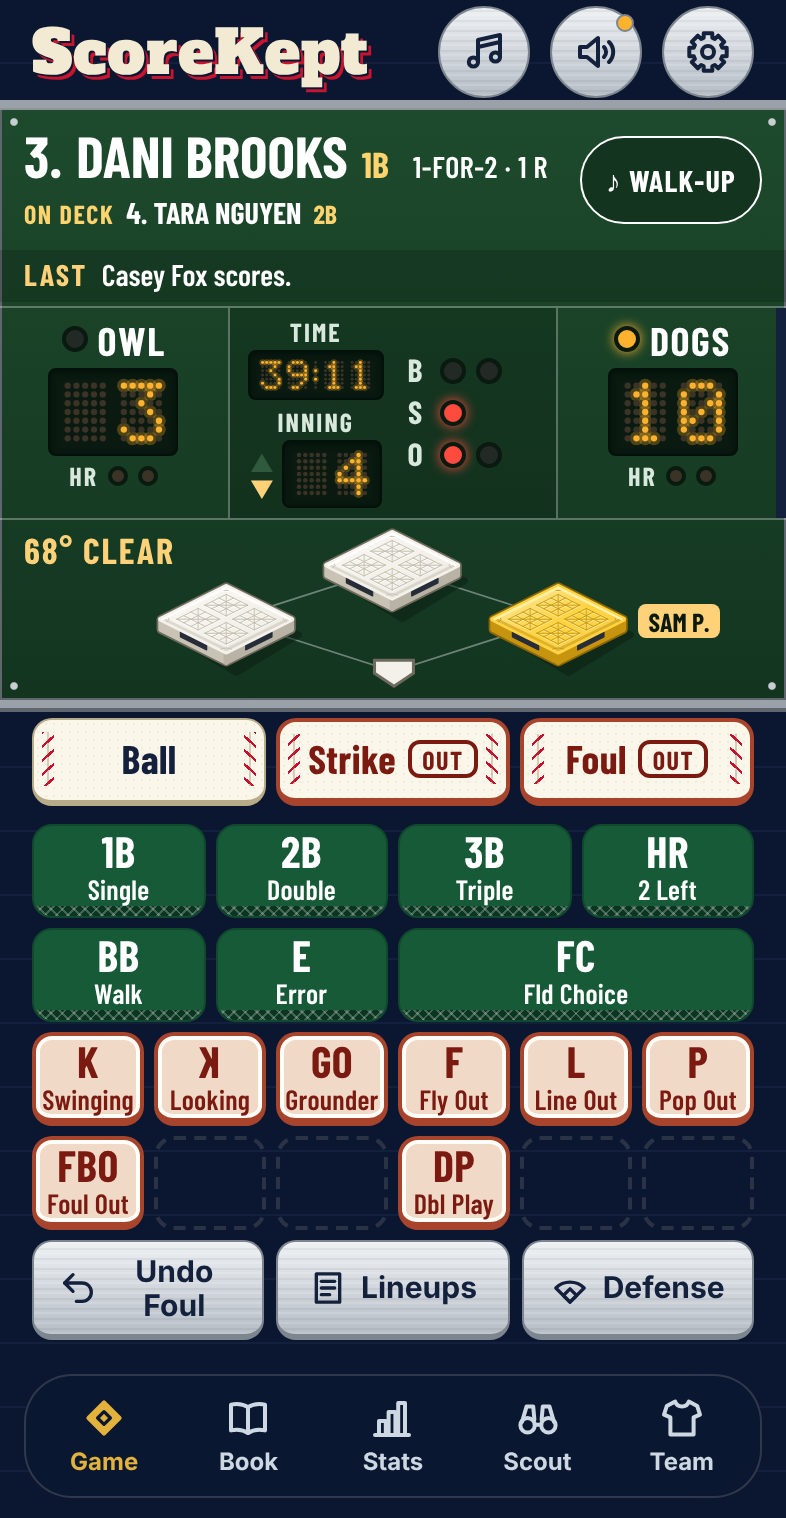
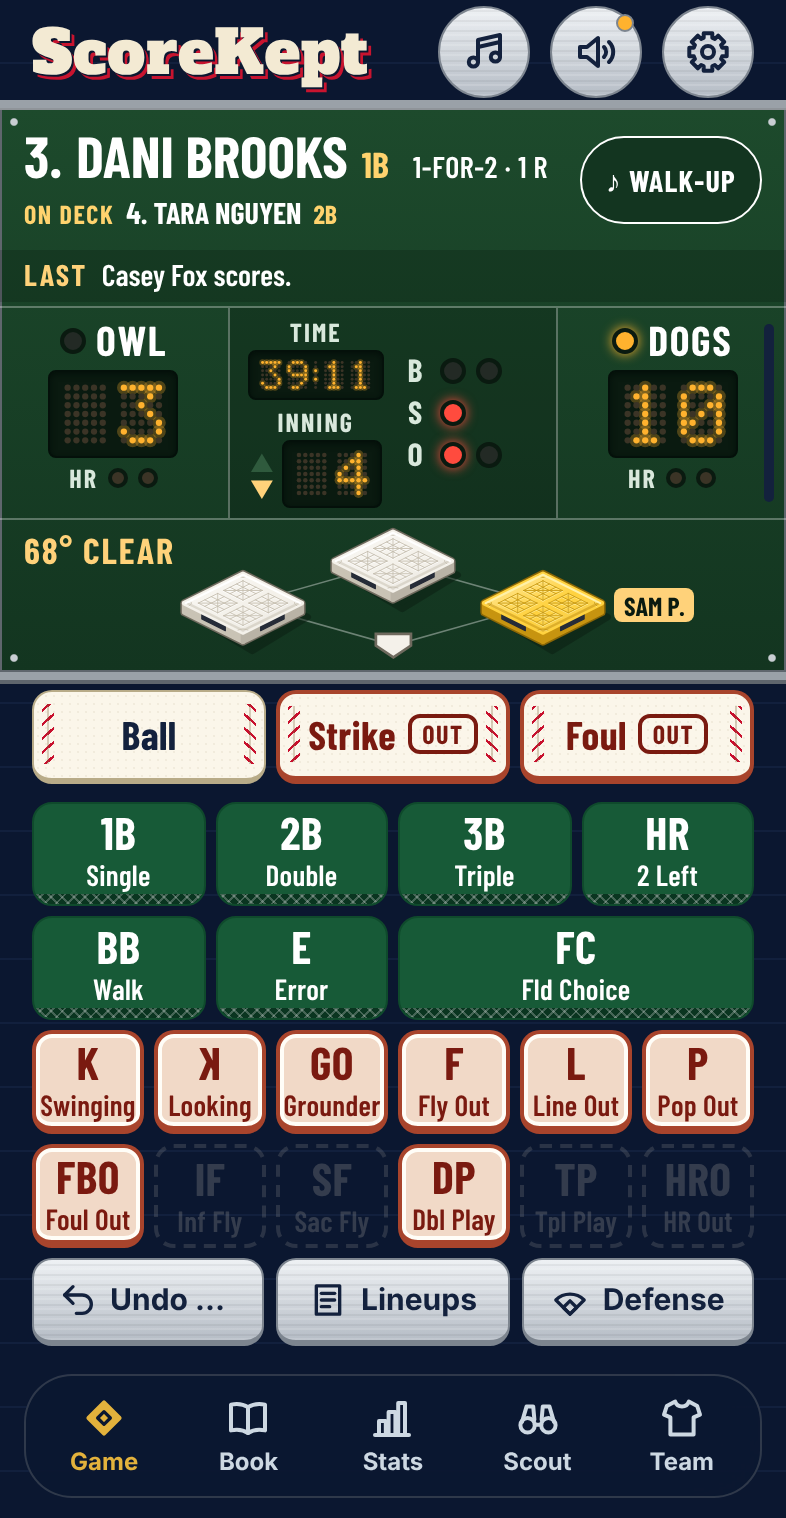
Game: the pad fills the screen, chalk labels in empty slots, trimmed diamond
From the research bot's second review: empty out slots keep their labels in
faint chalk; the scoring rows grow to fill the screen down to 14 points
above the tab bar with bigger codes, measured only when the screen's shape
changes; the diamond is trimmed; Undo stays on one line; and the team
stripe sits inside the board's edge.

Claude-Session: https://claude.ai/code/session_019GkS5eEiAzmEB3GrHC5aVf

Changed region(s): [[0.0, 0.3406, 1.0, 0.8979], [0.7634, 0.1858, 1.0, 0.3406], [0.0611, 0.2167, 0.2137, 0.3096]]

diff --git a/src/ui/game/screen.ts b/src/ui/game/screen.ts
@@ -7,6 +7,7 @@ import type { App } from '../../app/app.ts';
 import { battingTeamOf, boardView, clockText, finalText, ordinalWord, padView } from '../../app/view.ts';
 import type { GameState } from '../../engine/replay.ts';
 import type { GameEvent } from '../../engine/types.ts';
+import { currentLayout } from '../layout.ts';
 import { describePlay } from '../../engine/words.ts';
 import { recordText, teamRecord } from '../../stats/index.ts';
 import { announce } from '../announce.ts';
@@ -129,6 +130,7 @@ export class GameScreen {
     );
 
     this.el = h('div', { class: 'gm-screen' }, header, this.live, this.upNext, this.idle);
+    window.addEventListener('resize', () => this.fill());
     // Key Clicks (Sounds): the touch itself clicks, so the sound lands with the thumb.
     this.el.addEventListener('pointerdown', (e) => {
       const k = (e.target as Element).closest('.gm-key, .gm-strip-key');
@@ -216,7 +218,58 @@ export class GameScreen {
     const recent = s.plays.filter((p) => p.t === 'pa' || p.t === 'runner' || p.t === 'quick').slice(-4).reverse();
     this.lastPlays.replaceChildren(...recent.map((p) => h('li', {}, describePlay(p, name))));
     this.announceChanges(game.id, s);
+    this.fill();
   }
+
+  /**
+   * The pad fills the screen (Nov 14): give the live area the room down to 14 points above the
+   * tab bar, so the scoring rows grow into it, and let the labels grow a little with them.
+   * iPhone upright only; the board and pad keep their natural sizes elsewhere.
+   */
+  fill(): void {
+    const live = this.live;
+    const bar = document.querySelector('.sk-tabbar');
+    if (live.hidden || currentLayout() !== 'phone' || !bar) {
+      document.documentElement.classList.remove('gm-filled');
+      if (this.fitKey) {
+        live.style.minHeight = '';
+        this.el.style.removeProperty('--grow');
+        this.fitKey = '';
+      }
+      return;
+    }
+    // One read per tap; the measuring (a second layout) happens only when the screen's shape changes,
+    // so scoring stays instant (LESSONS 98).
+    const top = live.getBoundingClientRect().top;
+    const barTop = bar.getBoundingClientRect().top;
+    const key = `${innerWidth}x${innerHeight}:${Math.round(top)}:${Math.round(barTop)}`;
+    if (key === this.fitKey) return;
+    this.fitKey = key;
+    document.documentElement.classList.remove('gm-filled');
+    live.style.minHeight = '';
+    this.el.style.removeProperty('--grow');
+    const natural = live.getBoundingClientRect().height;
+    // Down to 14 points above the tab bar; if that would make the page scroll, give the overflow back.
+    let room = Math.floor(barTop - 14 - top);
+    // Too tall to fill (150% zoom, the largest text): the page scrolls as usual, room for the tab bar kept.
+    if (!natural || room - natural <= 1) return;
+    // The pad itself stops above the tab bar, so the room every tab keeps for it isn't needed here.
+    document.documentElement.classList.add('gm-filled');
+    live.style.minHeight = `${room}px`;
+    const over = document.documentElement.scrollHeight - innerHeight;
+    if (over > 0) {
+      room -= over;
+      live.style.minHeight = room > natural ? `${room}px` : '';
+      if (room <= natural) document.documentElement.classList.remove('gm-filled');
+    }
+    const extra = room - natural;
+    if (extra <= 1) return;
+    const pad = this.pad.el.getBoundingClientRect().height || 1;
+    this.el.style.setProperty('--grow', Math.min(1.22, 1 + (extra / pad) * 0.5).toFixed(3));
+  }
+
+  private fitKey = '';
+
 
   /** Once a second: the clock's bulbs only. When the minute rolls over, the whole board (LAST can arrive). */
   tick(): void {

diff --git a/src/ui/game/game.css b/src/ui/game/game.css
@@ -174,19 +174,35 @@
   padding: 5px 4px;
 }
 
-/* Your team's color, as a stripe down the edge of its side of the board. */
-.gm-away.us {
-  box-shadow: inset 5px 0 0 var(--team, var(--fb-team-fallback));
+/* Your team's color, as a rounded stripe just inside its side of the board, clear of the
+   iPhone's rounded screen edge (it looked clipped right at the edge). */
+.gm-team {
+  position: relative;
 }
 
-.gm-home.us {
-  box-shadow: inset -5px 0 0 var(--team, var(--fb-team-fallback));
+.gm-away.us::before,
+.gm-home.us::before {
+  content: '';
+  position: absolute;
+  top: 8px;
+  bottom: 8px;
+  width: 5px;
+  border-radius: 3px;
+  background-color: var(--team, var(--fb-team-fallback));
+}
+
+.gm-away.us::before {
+  left: 6px;
+}
+
+.gm-home.us::before {
+  right: 6px;
 }
 
 .gm-name {
   max-width: 100%;
   overflow: hidden;
-  font-size: min(calc(20 * var(--u)), 6vw);
+  font-size: calc(min(calc(20 * var(--u)), 6vw) * var(--grow, 1));
   font-weight: 700;
   letter-spacing: 0.04em;
   line-height: 1.1;
@@ -424,10 +440,10 @@
  * beside their base. Each base keeps a 44-point tap target.
  */
 .gm-board {
-  --bag: clamp(52px, 20cqi, 76px);
+  --bag: clamp(48px, 18cqi, 68px);
   --bag-h: calc(var(--bag) * 0.738);
   /* How much lower first and third sit than second. */
-  --rise: calc(var(--bag-h) * 0.5);
+  --rise: calc(var(--bag-h) * 0.44);
   /* Where a base's top face centers inside its box. */
   --face: calc(var(--bag-h) * 0.387);
   /* First and third: their centers this far from the middle. */
@@ -752,7 +768,7 @@
 .gm-code {
   font-family: var(--font-board);
   font-weight: 700;
-  font-size: min(calc(22 * var(--u)), 6.4vw);
+  font-size: calc(min(calc(22 * var(--u)), 6.4vw) * var(--grow, 1));
   letter-spacing: 0.01em;
 }
 
@@ -760,7 +776,8 @@
   margin-top: 2px;
   font-family: var(--font-board);
   font-weight: 600;
-  font-size: min(calc(14 * var(--u)), 3.9vw);
+  /* The small words grow less than the codes, so Swinging and Grounder never crowd their keys. */
+  font-size: calc(min(calc(14 * var(--u)), 3.9vw) * min(var(--grow, 1), 1.08));
   letter-spacing: 0.01em;
 }
 
@@ -862,6 +879,14 @@
 
 .gm-strip-key {
   font-size: calc(15 * var(--u));
+  /* "Undo Foul" stays on one line. */
+  white-space: nowrap;
+}
+
+.gm-strip-key > span {
+  min-width: 0;
+  overflow: hidden;
+  text-overflow: ellipsis;
 }
 
 .gm-last {
@@ -1525,8 +1550,9 @@
   pointer-events: none;
 }
 
+/* The slot still says what goes there, faintly, in chalk (the research bot, Nov 14). */
 .gm-key.gm-gone > * {
-  visibility: hidden;
+  color: var(--chalk-slot-ink);
 }
 
 /* A key that can't be used right now keeps only its frame. */
@@ -1586,4 +1612,28 @@
   min-width: 0;
   overflow: hidden;
   text-overflow: ellipsis;
+}
+
+/* The pad fills the screen (Nov 14): on a taller screen the scoring rows share the extra room
+   and the labels grow a little (--grow, set by the Game screen), down to 14 points above the
+   tab bar. */
+.gm-live > .gm-pad,
+.gm-pad > .gm-scoring {
+  flex: 1 1 auto;
+}
+
+.gm-scoring > .gm-count-row {
+  flex: 1 1 auto;
+}
+
+.gm-scoring > .gm-reaches,
+.gm-scoring > .gm-outs-pad {
+  flex: 2 1 auto;
+  grid-auto-rows: 1fr;
+}
+
+/* While the pad fills the Game screen, the room every tab keeps under its content for the tab
+   bar isn't needed: the pad stops 14 points above the bar on its own. */
+html.gm-filled[data-tab='game'] .sk-main {
+  padding-bottom: 0;
 }

diff --git a/tests/e2e/game.spec.ts b/tests/e2e/game.spec.ts
@@ -274,6 +274,8 @@ for (const colorScheme of ['light', 'dark'] as const) {
     await page.setViewportSize({ width: 393, height: 852 });
     await gameInProgress(page, true, true);
     await page.addStyleTag({ content: ':root { --safe-top: 59px !important; --safe-bottom: 34px !important; }' });
+    // A real iPhone has its safe areas from the first frame; tell the page its shape changed, as iOS does.
+    await page.evaluate(() => window.dispatchEvent(new Event('resize')));
     const plays = ['Single', 'Strikeout Swinging', 'Single', 'Strikeout Swinging', 'Strikeout Swinging'];
     const endTheirs = key(page, 'End Their Half-Inning Now');
     for (let i = 0; i < 120 && (await todayCodes(page)) < 3; i++) {
@@ -292,6 +294,8 @@ for (const colorScheme of ['light', 'dark'] as const) {
     expect(m.headerTop).toBeGreaterThanOrEqual(59);
     expect(m.barBottom).toBeLessThanOrEqual(852 - 34 + 1);
     expect(m.barTop - m.stripBottom).toBeGreaterThanOrEqual(FIT_HEADROOM);
+    // The pad fills the screen (Nov 14): no dead band between Undo and the tab bar.
+    expect(m.barTop - m.stripBottom).toBeLessThanOrEqual(24);
     expect(m.fits).toBe(true);
   });
 

diff --git a/src/ui/game/pad.ts b/src/ui/game/pad.ts
@@ -46,7 +46,7 @@ const OUTS: KeyDef[] = [
   { r: 'L', label: 'L', word: 'Line Out', name: 'Line Out', kind: 'out' },
   { r: 'P', label: 'P', word: 'Pop Out', name: 'Pop Out', kind: 'out' },
   { r: 'FBO', label: 'FBO', word: 'Foul Out', name: 'Foul Out', kind: 'out' },
-  { r: 'IF', label: 'IF', word: 'Infield Fly', name: 'Infield Fly Rule', kind: 'out' },
+  { r: 'IF', label: 'IF', word: 'Inf Fly', name: 'Infield Fly Rule', kind: 'out' },
   { r: 'SF', label: 'SF', word: 'Sac Fly', name: 'Sac Fly', kind: 'out' },
   { r: 'DP', label: 'DP', word: 'Dbl Play', name: 'Double Play', kind: 'out' },
   { r: 'TP', label: 'TP', word: 'Tpl Play', name: 'Triple Play', kind: 'out' },

diff --git a/src/ui/book/editplay.ts b/src/ui/book/editplay.ts
@@ -46,7 +46,7 @@ const ROWS: { title: string; keys: { r: Result; code: string; word: string }[] }
       { r: 'L', code: 'L', word: 'Line Out' },
       { r: 'P', code: 'P', word: 'Pop Out' },
       { r: 'FBO', code: 'FBO', word: 'Foul Out' },
-      { r: 'IF', code: 'IF', word: 'Infield Fly' },
+      { r: 'IF', code: 'IF', word: 'Inf Fly' },
       { r: 'SF', code: 'SF', word: 'Sac Fly' },
       { r: 'DP', code: 'DP', word: 'Dbl Play' },
       { r: 'TP', code: 'TP', word: 'Tpl Play' },

diff --git a/src/styles/tokens.css b/src/styles/tokens.css
@@ -114,6 +114,7 @@
   --tab-on: #ffd666;
   --status-band: #13213d;
   --chalk-slot: rgb(19 33 61 / 0.32);
+  --chalk-slot-ink: rgb(19 33 61 / 0.42);
   --tuck-shadow: rgb(0 0 0 / 0.18);
 
   /* Scoring pad: hits green, outs red, everywhere, for every team. */
@@ -207,6 +208,7 @@
     --tab-on: #e3b23c;
     --status-band: #0b1730;
     --chalk-slot: rgb(243 234 211 / 0.32);
+    --chalk-slot-ink: rgb(243 234 211 / 0.42);
     --tuck-shadow: rgb(0 0 0 / 0.45);
 
     --hit-bg: #123a21;

diff --git a/src/content/whats-new.ts b/src/content/whats-new.ts
@@ -10,6 +10,11 @@ export interface WhatsNewEntry {
 
 export const WHATS_NEW: WhatsNewEntry[] = [
   {
+    version: '2026.11.14-5',
+    headline: 'Bigger Buttons, Same Places',
+    lines: ['The scoring buttons grow to fill your screen with bigger words, and an out that can’t happen keeps its name in chalk so you always know what goes there.'],
+  },
+  {
     version: '2026.11.14-4',
     headline: 'Every Key in Its Place',
     lines: [

diff --git a/src/version.ts b/src/version.ts
@@ -1,2 +1,2 @@
 // Bump on every push that changes the app. Format: YYYY.MM.DD-N
-export const APP_VERSION = '2026.11.14-4';
+export const APP_VERSION = '2026.11.14-5';

diff --git a/docs/SPEC.md b/docs/SPEC.md
@@ -377,6 +377,7 @@ Grouped; each item opens its own screen; ✕ or Done returns to Settings:
 - **Game Replay (Phase 15, 2026.11.13-15):** **Watch Replay** above the Book's play-by-play opens a full-screen sheet: the game's teams and date, a green strip with both short names and runs, the inning, and the outs, the field (the hit-location field) with the ball's line drawing out to where it landed (or the fielder's spot), runners as gold markers with initials that move base to base (a run heads home, an out fades), "Top of the third, 1 out", and the play's words in a polite live region. **Back**, **Play**/**Pause** (a play every 2.4 seconds), **Next**, and a half-inning menu. Built only from saved plays (`replay()` up to each play), so every game replays, imported ones too. Reduce Motion steps with no movement. Not built yet: sharing it as a video.
 - **Ballpark materials (2026.11.14-1, Steve's pick E from the Ballpark Materials mockups):** Ball, Strike, and Foul are cream leather with a faint pebble grain and a seam at each end (a crease and a row of red V-stitches); the pitch that ends the at-bat gets a brick (Out) or turf (Walk) frame with its tag. Reaching base is dark turf (`--mat-turf`, white words at 7:1) with a strip of the bases' molded rubber tread along the bottom (its own layer). Outs are pale infield clay inside a chalk line, framed in brick; a dimmed one keeps only its frame. Undo, Lineups, and Defense are brushed aluminum with a fine horizontal grain, lit from above. The colors are a fixed set (`--mat-*`), the same day and night, like the field board. Edit Play's keys and the Dugout Mode quick buttons share the looks. **Streamlined outs:** the first out row (K, backwards K, GO, F, L, P) never moves; the second holds Foul Out and whichever of Infield Fly, Sac Fly, Double Play, Triple Play, and HR Out can happen, sharing the row's width (a 60-column grid, `--span`); at 150% zoom they stay and dim instead.
 - **Game screen fixes (2026.11.14-4, from the research bot's review and Steve's four picks):** (1) **Fixed slots:** the out keys are two fixed rows of six (K, backwards K, GO, F, L, P; FBO, IF, SF, DP, TP, HRO); a situational out that can't happen leaves an empty dashed chalk outline (`--chalk-slot`), not tappable (`inert`) and hidden from VoiceOver, so no key ever moves or stretches; a test checks every pitch, reach, and out key keeps its place and size with the bases empty, runners on, and two outs. (2) **Weather** at the top left of the diamond band, bigger (18 points); the time of day is gone (iOS shows the clock above the board now). (3) **A diamond inside the board:** bases at about 20% of the width (52 to 76 points, 40% smaller), second at the top, third and first to the sides and lower, home plate at the bottom, chalk base paths between; each base keeps a 44-point target; each runner's first name and last initial in a gold tag beside their base. (4) Materials unchanged. Also: the **inning** shows an INNING label, the number alone in the bulbs, and an arrow above and below (the lit one says top or bottom; the unlit one is an off bulb); the **at-bat lamp** is a socket beside each team's name, lit for the team batting, with an AT BAT tag when the panel is wide enough; a **LAST** line across the bottom of the batter strip gives the last play in words, keeping its space before the first play; **Undo** names what it will undo ("Undo K", "Undo Ball"); the other team's batter shows **today's line** from this game's plays.
+- **Second review (2026.11.14-5):** empty out slots keep their labels in faint chalk (`--chalk-slot-ink`: IF Inf Fly, SF, DP, TP, HRO), still not tappable; the row stays six wide because all six can be live at once (bases loaded, nobody out, over the HR limit). **The pad fills the screen:** on iPhone upright the Game screen measures, only when its shape changes, the room down to 14 points above the tab bar, gives it to the live area (the scoring rows share it: pitch row 1, reach and out rows 2 each), lets the codes grow up to 22% and the small words up to 8% (`--grow`), drops the tab-bar room under the page (`html.gm-filled`), and gives back any overflow so the page never scrolls. The diamond is trimmed (bases 18% of the width, 48 to 68 points). Undo stays on one line. Your team's stripe sits 6 points inside the board's edge, rounded, clear of the iPhone's rounded screen edge.
 - **Header keys (2026.11.14-3):** the Organ, speaker, and gear are thin brushed-aluminum rings (1.5-point frame, the tools row's grain and light), lighter than the old filled circles. Sound on: a small gold lamp lights in the speaker's ring, with the speaker's waves; off: a dark socket and the slashed speaker.
 - **Key Clicks (2026.11.14-3, `prefs.audio.keyClicks`, off unless turned on):** with sound on, touching a scoring key makes a short click on the spot (Web Audio, under 60 ms, through the plain bus): a dull thump for leather (Ball, Strike, Foul), a rubbery tap for turf, a dry click for clay, a light tick for aluminum. A switch in Sounds, Game Sounds.
 - **Weather (2026.11.14-3, Steve: OK to Open-Meteo, save it, use the iPhone's location):** once a real game (not the sample) is under way and has no weather, the Game tab asks the iPhone's location (no high accuracy, 15-second limit), rounds it to two decimals (about a kilometer), and asks Open-Meteo for the current temperature (°F), weather code, and wind (mph); again 20 seconds after a miss until it has an answer, never again that session once location is off, nothing with no signal. Saved as `game.weather` (`tempF`, `sky`, `windMph`, `at`). The board shows it at the top left of the diamond band (2026.11.14-4: bigger, and the time of day removed); the Book footer adds "Weather at the first pitch: 68° · Clear · Wind 6 mph". The sample season carries made-up weather. Privacy and credit in README.

diff --git a/docs/LESSONS.md b/docs/LESSONS.md
@@ -75,4 +75,6 @@ Each of these cost real time the first time. Read before working on the related 
 95. **A service worker carries requests past Playwright's stand-ins.** The weather test's fake Open-Meteo answer worked alone but not in a full run: once the app's service worker was running, WebKit sent the fetch past `page.route` to the real (blocked) network. A test that fakes an outside service blocks service workers (`test.use({ serviceWorkers: 'block' })`). Also: retry soon after a miss (20 seconds), not on the long interval, and give a location fix a hard time limit, since some never call back.
 96. **A layer exporter with a fixed list goes stale.** The Game screen's Photoshop file lost the new weather and time readouts because the exporter named its layers by hand and hid everything else on the board, and a whole-picture comparison missed text that small. The exporters (now in `tools/psd/`, not a scratch folder) check coverage first: every visible word, icon, picture, and lamp must sit on some layer, or the export stops.
 97. **A line that appears after the first play moves everything under it.** The LAST play line pushed the whole pad down 28 points after the first tap, which the new key-stability test caught. Anything that comes and goes above the pad keeps its space while empty (`visibility: hidden` on its contents, not `hidden` on itself).
+98. **Measuring on every tap costs a layout.** Filling the Game screen's spare height measured the pad after clearing its height on every update, two layouts per tap, and WebKit's scoring time went from 64 to 132 ms. Measure only when the screen's shape changes (width, height, where the pad starts, where the tab bar sits), and keep the per-tap work to one read.
+99. **Taking back room only works when the content fits.** The filled Game screen drops the space every tab keeps for the tab bar, but at 150% zoom and the largest text the screen is taller than the iPhone and scrolls, and its bottom buttons slid under the tab bar where no tap could reach them. Drop that space only when the pad actually fills (`html.gm-filled`), and grow first, then give back any overflow, rather than guessing what sits below.
 91. **A tap that misses its target in a test may be a hidden UI element, not a slow page.** Tucking the tab bar on any scroll broke tests that scroll a button into view and then tap a tab. Tuck only on a finger or trackpad scroll, start that timer at minus infinity (not 0, or the first half second after load counts), and hide whichever form isn't showing with `visibility`, so neither VoiceOver nor a test finds it.
